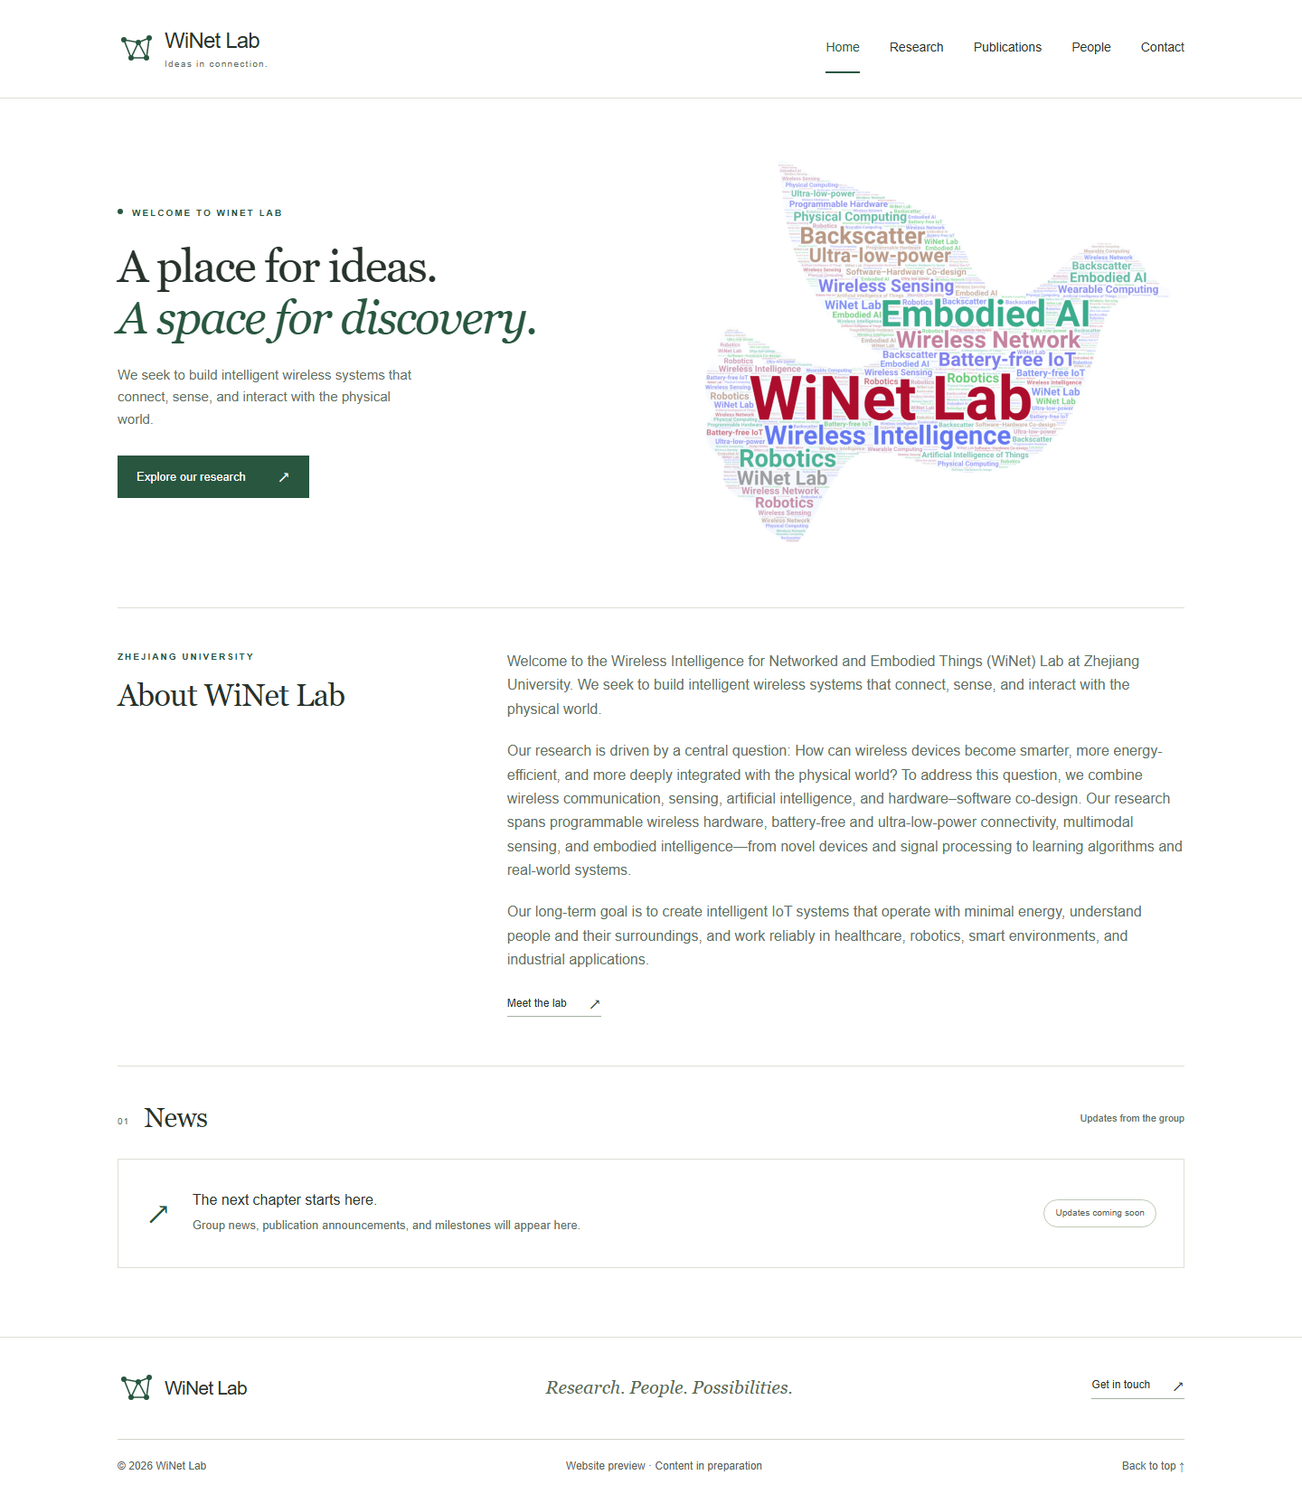
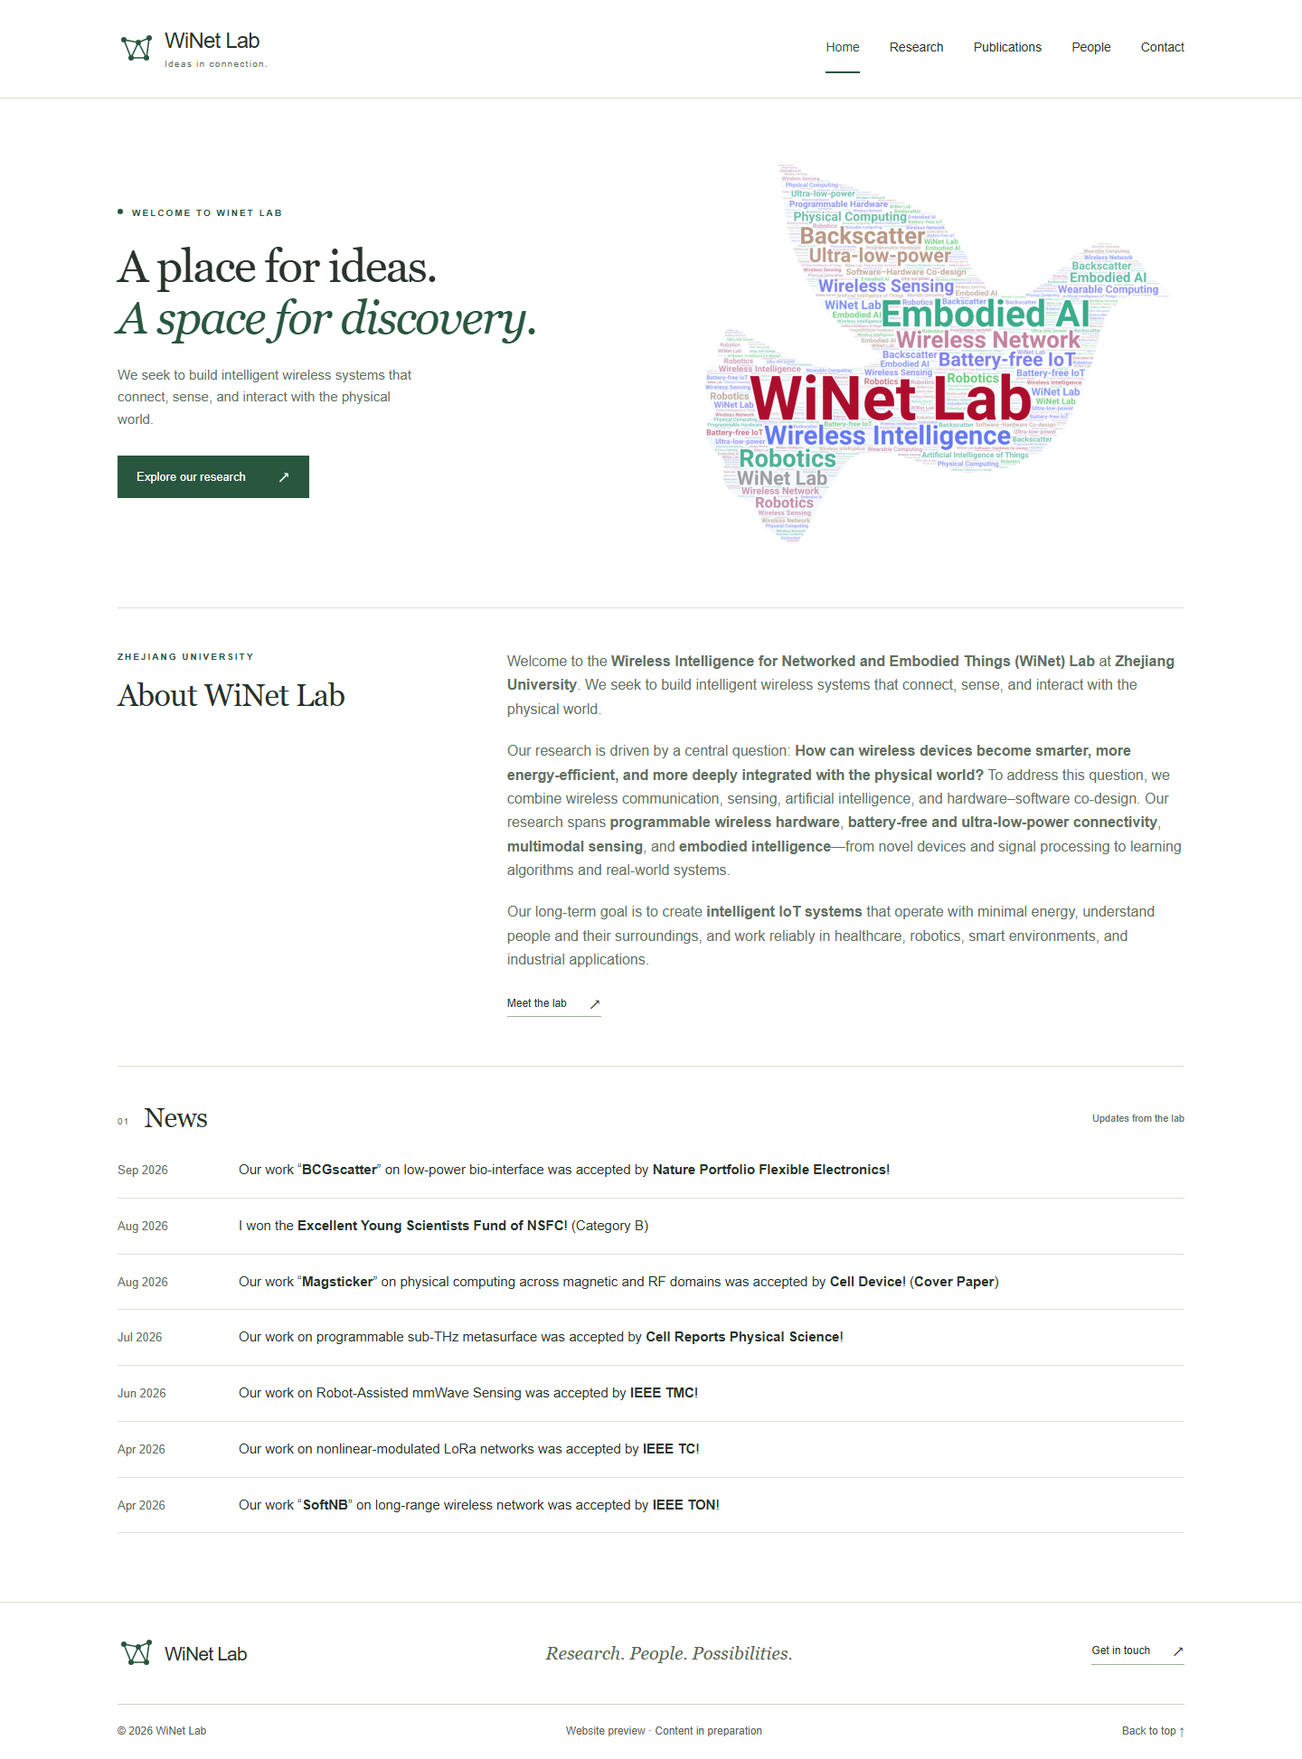
feat: add lab news and editable text emphasis

diff --git a/src/styles/global.css b/src/styles/global.css
@@ -46,6 +46,9 @@
     font-weight: 400;
     line-height: 1.12;
   }
+  strong {
+    font-weight: 700;
+  }
   a,
   button {
     -webkit-tap-highlight-color: transparent;
@@ -283,39 +286,32 @@
     color: var(--muted);
   }
   .news-empty {
-    display: flex;
-    align-items: center;
-    gap: 24px;
-    padding: 28px 30px;
-    background: var(--paper);
-    border: 1px solid var(--line);
-  }
-  .empty-symbol {
-    color: var(--green);
-    font-family: var(--serif);
-    font-size: 38px;
-  }
-  .news-empty h3 {
-    font-size: 16px;
-    font-weight: 500;
-    margin-bottom: 8px;
-  }
-  .news-empty p {
-    font-size: 13px;
     color: var(--muted);
   }
-  .pill {
-    display: inline-block;
-    flex-shrink: 0;
-    font-size: 10px;
-    letter-spacing: 0.1px;
-    border: 1px solid #bdc9b5;
-    border-radius: 30px;
-    padding: 6px 12px;
-    color: #51624d;
+  .news-list {
+    list-style: none;
+    margin: 0;
+    padding: 0;
   }
-  .news-empty .pill {
-    margin-left: auto;
+  .news-item {
+    display: grid;
+    grid-template-columns: 110px minmax(0, 1fr);
+    gap: 24px;
+    padding: 18px 0;
+    border-bottom: 1px solid var(--line);
+    align-items: baseline;
+  }
+  .news-item:first-child {
+    padding-top: 0;
+  }
+  .news-item time {
+    font-size: 13px;
+    color: var(--muted);
+    white-space: nowrap;
+    font-variant-numeric: tabular-nums;
+  }
+  .news-item p {
+    font-size: 15px;
   }
   .footer-top p {
     font-family: var(--serif);
@@ -354,12 +350,6 @@
     }
     .hero h1 {
       font-size: 38px;
-    }
-    .news-empty {
-      flex-wrap: wrap;
-    }
-    .news-empty .pill {
-      margin-left: 58px;
     }
     .about {
       gap: 38px;
@@ -461,19 +451,10 @@
       text-align: right;
       font-size: 10px;
     }
-    .news-empty {
-      padding: 22px;
-      gap: 14px;
-    }
-    .news-empty > div {
-      flex: 1;
-      min-width: 200px;
-    }
-    .news-empty .pill {
-      margin-left: 0;
-    }
-    .empty-symbol {
-      display: none;
+    .news-item {
+      grid-template-columns: 1fr;
+      gap: 6px;
+      padding: 18px 0;
     }
     .footer-top {
       flex-wrap: wrap;

diff --git a/tests/home.spec.ts b/tests/home.spec.ts
@@ -36,6 +36,30 @@ test('homepage content, links, local assets and accessibility', async ({
   await expect(
     page.getByRole('heading', { name: 'News', exact: true }),
   ).toBeVisible();
+  const news = page.getByRole('list', { name: 'Lab news' });
+  await expect(news.getByRole('listitem')).toHaveCount(7);
+  await expect(news.locator('time')).toHaveText([
+    'Sep 2026',
+    'Aug 2026',
+    'Aug 2026',
+    'Jul 2026',
+    'Jun 2026',
+    'Apr 2026',
+    'Apr 2026',
+  ]);
+  await expect(
+    news.locator('strong').filter({ hasText: /^BCGscatter$/ }),
+  ).toHaveCSS('font-weight', '700');
+  await expect(page.locator('.about-copy strong').first()).toHaveCSS(
+    'font-weight',
+    '700',
+  );
+  await expect(news).toContainText('Excellent Young Scientists Fund of NSFC');
+  await expect(news).toContainText('Cover Paper');
+  await expect(news).toContainText('SoftNB');
+  await expect(
+    page.getByText('Updates coming soon', { exact: true }),
+  ).toHaveCount(0);
   for (const title of ['Events', 'Collaborators']) {
     await expect(
       page.getByRole('heading', { name: title, exact: true }),
@@ -61,6 +85,7 @@ test('homepage content, links, local assets and accessibility', async ({
   const text = await page.locator('body').innerText();
   expect(text).not.toMatch(/[\u3400-\u9fff]/);
   expect(text).not.toMatch(/winet\s+group/i);
+  expect(text).not.toContain('**');
   await page.keyboard.press('Tab');
   await expect(
     page.getByRole('link', { name: 'Skip to content' }),

diff --git a/docs/content-maintenance.md b/docs/content-maintenance.md
@@ -2,15 +2,41 @@
 
 Updated 2026-09-15. The website is English-only; the online content editor is required but not implemented.
 
-The user explicitly declined the proposed local content-management tool. The current priority is integrating real material into the initial five-page website; the final online editor follows. Do not build a local editor as an intermediate deliverable. Keep content separate from presentation so the final editor can use the same data. The user has now supplied the Home introduction and word cloud; other page records are still pending.
+The user explicitly declined the proposed local content-management tool. The current priority is integrating real material into the initial five-page website; the final online editor follows. Do not build a local editor as an intermediate deliverable. Keep content separate from presentation so the final editor can use the same data. The user has now supplied the Home introduction, word cloud, and seven News records; other page records are still pending.
 
 ## Editing at this milestone
 
-src/data/home.json contains hero copy, heroImage metadata, about.paragraphs (three user-supplied paragraphs rendered individually), and News empty-state text. The headline accepts a newline for intentional line breaks. heroImage.src is relative to public/; width/height record original image dimensions and alt describes it in English. The current source is public/images/winet-lab-wordcloud.png. Events and Collaborators were removed at the user's request; do not restore those fields or sections without a new request. src/data/site.json contains the canonical name WiNet Lab, description, and navigation. Astro escapes these plain-text fields.
+src/data/home.json contains hero copy, heroImage metadata, about.paragraphs (three user-supplied paragraphs rendered individually), and news.items. Each news record contains a unique id, date in YYYY-MM format, and text. Records display in descending month order, retaining input order within the same month. The headline accepts a newline for intentional line breaks. heroImage.src is relative to public/; width/height record original image dimensions and alt describes it in English. The current source is public/images/winet-lab-wordcloud.png. Events and Collaborators were removed at the user's request; do not restore those fields or sections without a new request. src/data/site.json contains the canonical name WiNet Lab, description, and navigation.
 
-After a developer edits data, the development preview updates automatically. Production output must be regenerated with npm run build. JSON files are not yet a user-facing form tool, and News is not yet a record list. Arbitrary arrays will not render at this milestone.
+After a developer edits data, the development preview updates automatically. Production output must be regenerated with npm run build. News now renders the structured records described above; the four inner pages remain placeholders. JSON files are not a user-facing form tool and do not replace the planned online editor.
 
-The three About paragraphs, lab's full name, Zhejiang University affiliation, and word-cloud image were supplied by the user and are now integrated. Remaining hero slogans and the small brand mark are design drafts. Detailed research projects, publications, member details/photos, final logo, and news are still needed. The teacher's GitHub-related email is not approved public contact information.
+The three About paragraphs, lab's full name, Zhejiang University affiliation, word-cloud image, and seven News records were supplied by the user and are now integrated. The News wording retains the supplied journal titles and first-person award statement; the Chinese award note was rendered as Category B to keep the site English-only. Remaining hero slogans and the small brand mark are design drafts. Detailed research projects, publications, member details/photos, and final logo are still needed. The teacher's GitHub-related email is not approved public contact information.
+
+## 修改加粗和新闻内容
+
+打开 [home.json](../src/data/home.json)：
+
+- 介绍正文：about.paragraphs 下的三段字符串。
+- 新闻正文：news.items 中每条记录的 text。
+- 顶部简介：introduction。
+
+在需要加粗的文字两侧分别加两个星号。例如：
+
+```json
+"text": "Our work “**BCGscatter**” on low-power bio-interface was accepted by **Nature Portfolio Flexible Electronics**!"
+```
+
+页面显示时星号会转成加粗；删去两侧星号即可取消加粗。仅上述正文位置支持此写法，标题、日期、图片说明等其他字段目前按普通文字处理。标记应成对、放在同一段内；无需填写 HTML 标签。保留 JSON 的双引号与逗号，字符串中如果使用英文直双引号，需要写为 `\"`。
+
+粗体显示由 [global.css](../src/styles/global.css) 中的 strong 规则统一控制，目前为 font-weight: 700。日常选哪些文字加粗只改内容文件。
+
+当前 localhost:4321 是生产预览，保存 JSON 后需重新构建再刷新。在项目根目录的 PowerShell 中可使用现有本地 Node：
+
+```powershell
+& '.\.tools\node-v24.21.0-win-x64\node.exe' '.\node_modules\astro\bin\astro.mjs' build
+```
+
+若使用 npm run dev 启动的开发预览，则内容保存后自动更新。上述操作只影响本地预览，不上传 GitHub。
 
 ## Online tool proposal — separate approval required
 

diff --git a/docs/verification/F02-home.md b/docs/verification/F02-home.md
@@ -4,7 +4,7 @@ Date: 2026-09-15. First content batch implemented; user acceptance pending. Othe
 
 ## Content provenance and scope
 
-The user supplied the three English paragraphs beginning “Welcome to the Wireless Intelligence…” and instructed their inclusion in Home. They are stored verbatim, in order, in `src/data/home.json` as `about.paragraphs`. The user also supplied the Home word cloud and specified the canonical name **WiNet Lab**.
+The user supplied the three English paragraphs beginning “Welcome to the Wireless Intelligence…” and instructed their inclusion in Home. Their wording and order are preserved in `src/data/home.json` as `about.paragraphs`; a subsequent revision added paired bold markers without changing the rendered wording. The user also supplied the Home word cloud and specified the canonical name **WiNet Lab**.
 
 The image initially had no accessible file path in the conversation tools. It was subsequently found at `public/images/winet-lab-wordcloud.png` and visually matched to the supplied image. The original PNG is 2154×1614, 1,854,233 bytes. It replaces the original generated network visual and its caption, without cropping or redrawing. HTML dimensions reserve its aspect ratio and descriptive alt text supports nonvisual access.
 
@@ -21,4 +21,12 @@ Header/footer branding now uses one Brand component and the same site.name value
 
 Current review images: [desktop](home-desktop.png), [mobile](home-mobile.png). Run the commands documented in [F01](F01.md) to reproduce the checks; `node scripts/capture.mjs` refreshes screenshots against the localhost preview.
 
-No deployment, remote edits, online editor, physical-device test, or Safari/Firefox validation occurred. News and the four inner pages still contain explicit placeholders. Review this Home batch with the user before proceeding to another content batch.
+No deployment, remote edits, online editor, physical-device test, or Safari/Firefox validation occurred. The four inner pages still contain explicit placeholders. Review this Home batch with the user before proceeding to another content batch.
+
+## News and text-emphasis revision
+
+The user subsequently supplied seven News items dated April–September 2026. They now appear in a semantic list with month/year dates in descending order; same-month order matches the source. The supplied first-person award statement and English venue names are retained. Spacing was normalized, the stray HTML space entity removed, and the Chinese award note represented as Category B under the English-only requirement. No independent verification of the supplied academic claims was performed.
+
+Shared EmphasisText supports paired **bold** markers in the hero description, About paragraphs, and News text. The lab name, university, central research question, research themes, paper names, venues, award name, and cover-paper note have selected emphasis. Source text remains escaped, with no arbitrary HTML execution.
+
+Type checking and static build passed. The six existing Chromium tests passed with added checks for exactly seven News records, the supplied month order, visible content, computed bold weight of 700, no displayed ** markers, and removal of the old News placeholder. The existing responsive and accessibility checks also passed. Updated desktop/mobile screenshots were visually inspected for text wrapping and date placement. Paths and asset handling did not change in this revision; the prior base-path verification remains the relevant evidence.

diff --git a/docs/architecture.md b/docs/architecture.md
@@ -5,16 +5,18 @@ Status: Home layout and first supplied content batch implemented, pending user a
 ## Boundaries
 
 - `src/layouts/SiteLayout.astro`: document language, metadata, shared header/footer, global stylesheet, and skip link.
-- `src/components/`: shared Brand, navigation, footer, section heading, and small decorative brand mark. Header owns its mobile-menu script. Brand reads the name from site.json for both header and footer. Pages do not import other pages.
+- `src/components/`: shared Brand, navigation, footer, section heading, NewsList, EmphasisText, and small decorative brand mark. Header owns its mobile-menu script. Brand reads the name from site.json for both header and footer. Pages do not import other pages.
 - `src/pages/index.astro`: Home composition only.
 - `src/pages/[section].astro`: generates four explicitly unfinished route shells from navigation data. Replace with independent pages as their tasks are approved.
-- `src/data/site.json`: identity, description, navigation. `src/data/home.json`: hero copy, image metadata, the three supplied introduction paragraphs, and News empty-state text. Fixed interface labels remain in components.
+- `src/data/site.json`: identity, description, navigation. `src/data/home.json`: hero copy, image metadata, the three supplied introduction paragraphs, and seven supplied News records. Fixed interface labels remain in components.
 - `src/lib/paths.ts`: shared base-path handling for internal page links and static image URLs. File URLs do not receive page-style trailing slashes.
 - `public/images/winet-lab-wordcloud.png`: the user-supplied original Home image, 2154×1614; preserved without cropping or redrawing.
 - `src/styles/global.css`: design tokens, layout, components, responsive rules. No external fonts or image services.
 - `tests/` and `scripts/`: production-browser verification, screenshot capture, and a separate repository-base-path check.
 
 Astro generates five static HTML pages. Only mobile navigation needs client JavaScript. No application server, database, remote CMS, or deployment workflow is configured.
+
+NewsList receives structured records with unique id, YYYY-MM date, and nonempty text; validates those fields at build time; and sorts a copy by descending month while preserving input order within a month. It renders semantic list items and time elements, with a small empty state only when the list is empty. EmphasisText is shared by the hero description, introduction paragraphs, and News text. It supports paired **bold** markers only and renders semantic strong elements; other content remains escaped text. It does not render arbitrary HTML or provide a complete Markdown engine.
 
 ## Visual decisions
 

diff --git a/docs/progress.md b/docs/progress.md
@@ -4,9 +4,15 @@
 
 ## 当前优先任务 F02：真实资料整合与网站初版
 
+当前批次：用户提供7条2026年4月至9月的News，要求填充首页并说明如何加粗。已完成News结构化列表与介绍/新闻共用的 **加粗** 标记支持，等待用户验收。本轮未进入其他页面或后台。
+
+本批验证：类型检查、构建和6项浏览器测试全部通过；检查7条内容与日期顺序、strong实际字重700、页面不泄漏星号标记、无旧空状态，以及320/390/768/1440 px的布局与导航。桌面/手机截图已更新并目视检查。News文字根据用户提供内容整理，没有独立核验其学术事实。中文奖项括注以Category B呈现；保留“I won”及提供的英文名称。
+
+编辑说明：src/data/home.json中的about.paragraphs、introduction及news.items[].text支持成对 ** 标记；详情见content-maintenance.md。代码、数据、文档与截图纳入本地Git提交 feat: add lab news and editable text emphasis；哈希以git log为准。未上传GitHub。
+
 用户已明确不制作本地内容管理工具，先将现有资料整合到五页网站初版，随后直接实现最终在线后台。此消息调整开发优先级，不自动代表 F01 视觉或整个项目已验收。
 
-状态：首批 Home 资料整合已完成，等待用户验收。用户已提供三段正式英文介绍、用于 Home 的词云图，并要求统一名称为 WiNet Lab。介绍原文及段落保存于 src/data/home.json 的 about.paragraphs；完整名称及 Zhejiang University 归属均来自用户原文。其他四页和真实 News 仍待资料，不自动从老师个人主页搬入内容。
+首批记录：用户提供的三段正式英文介绍、Home词云图及WiNet Lab名称已整合。介绍文字及段落保存于src/data/home.json的about.paragraphs，当前添加了加粗标记，显示的原文内容保持不变；完整名称及Zhejiang University归属均来自用户原文。其他四页仍待资料，不自动从老师个人主页搬入内容。
 
 资料明确后，先核对并整合首批内容，交付可查看页面及验证结果，按既有逐项确认要求继续。网站继续全英文、纯白背景，Home 不包含 Events/Collaborators；不上传 GitHub。最终后台选型与认证尚未确定。
 

diff --git a/docs/requirements.md b/docs/requirements.md
@@ -12,6 +12,7 @@
 - 页面布局参考该网站；本课题组的具体文案、研究方向、成员、论文、图片和联系信息尚待提供及确认。
 - 用户要求网站背景使用纯白（#ffffff），Home 移除 Events 和 Collaborators。参考站仅作布局参考，不需要照搬其全部内容；当前首页保留主视觉、课题组介绍和 News。
 - 用户已提供三段正式英文 Home 介绍，按原文与段落整合；同时提供词云图用于替换原生成主视觉。原图已取得并核对，保存为 public/images/winet-lab-wordcloud.png（2154×1614），保留完整比例，未重绘或裁剪。
+- 用户已提供7条2026年4月至9月的News，要求填充首页并说明加粗编辑位置。News按年月倒序显示，同月保留输入顺序；介绍和新闻正文支持 **加粗** 标记。按全英文要求，将奖项中文括注“国家自然科学基金青B项目”整理为“Category B”，保留用户提供的英文奖项名及第一人称表述。
 - 已确认使用在线内容管理后台，访问体验兼顾中国大陆与国际访客。
 - 用户已明确不需要本地内容管理工具；当前优先将现有资料整合为五页网站初版，随后直接实现最终在线管理后台。资料仍与页面组件分离，方便同一内容源接入后台。
 - 共享组件、独立页面、统一内容数据源；日常内容修改不应要求深入编辑代码。

diff --git a/docs/README.md b/docs/README.md
@@ -15,3 +15,5 @@
 9. [域名调研存档（已取消购买）](domain-research.md)
 
 用户已取消购买域名和本地内容管理工具。当前优先整合真实资料完成五页网站初版，之后实现最终在线后台。首批 Home 三段英文介绍与词云图已整合，网站名称统一为 WiNet Lab，等待用户验收；其他四页仍为占位路由。在线后台和发布流程尚未实现，未上传 GitHub。实际仓库信息留待部署前核验。当前状态以 progress.md 顶部为准，域名相关记录仅供历史存档。
+
+最新内容批次：7条News已整合，首页介绍和新闻正文支持成对 `**` 标记加粗。修改位置及保存后的预览步骤见 [内容维护说明](content-maintenance.md)。

diff --git a/README.md b/README.md
@@ -1,6 +1,6 @@
 # WiNet Lab website
 
-An English-language academic lab website, with a static Astro frontend and shared page components. Home now includes the supplied WiNet Lab introduction and word-cloud image. Research, Publications, People, and Contact are explicitly marked placeholders.
+An English-language academic lab website, with a static Astro frontend and shared page components. Home includes the supplied WiNet Lab introduction, word-cloud image, and seven News records. Introductory and News body text supports paired **bold** markers in the content data. Research, Publications, People, and Contact are explicitly marked placeholders.
 
 ## Local preview on this computer
 
